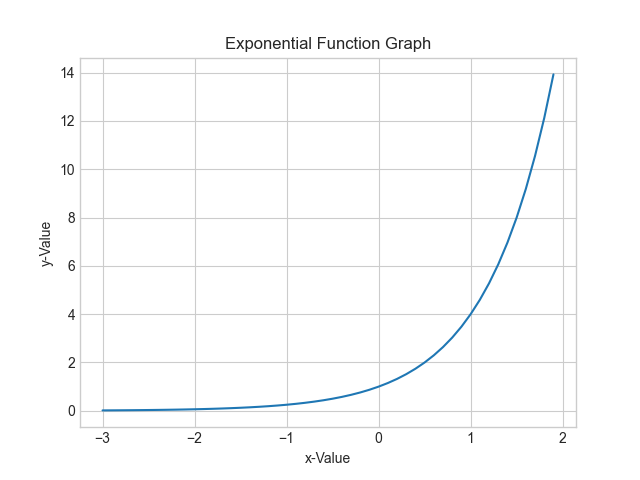
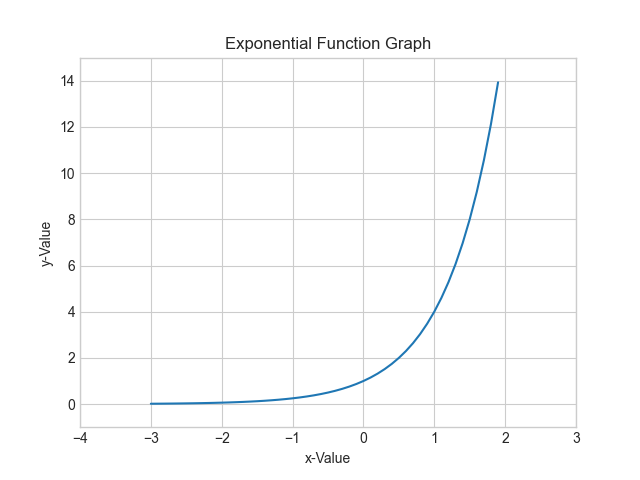
basic tensor

diff --git a/Python_Baisc Perceptron_Tensor/TensorPractice1.py b/Python_Baisc Perceptron_Tensor/TensorPractice1.py
@@ -1,0 +1,32 @@
+import math
+import numpy as np
+import matplotlib.pyplot as plt
+plt.style.use('seaborn-whitegrid')
+
+x = np.array(3)
+print(x) # 3
+print(x.shape) # ()
+print(np.ndim(x)) # 0
+
+print('----------------------')
+a = np.array([1,2,3,4])
+b = np.array([5,6,7,8])
+c = a+b
+print(c) # [ 6  8 10 12]
+print(c.shape) # (4,)
+print(np.ndim(c)) # 1
+
+print('----------------------')
+c = a*b
+print(c) # [ 5 12 21 32]
+print(c.shape) # (4,)
+print(np.ndim(c)) # 1
+
+# Scalar * Vector
+print('----------------------')
+a = np.array(10) # Scalar
+b = np.array([1,2,3,4]) # 1 Dimention Tensor
+c = a*b
+print(c) # [10 20 30 40]
+print(c.shape) # (4,)
+print(np.ndim(c)) # 1

diff --git a/Python_Baisc Perceptron_Math/Exponential.py b/Python_Baisc Perceptron_Math/Exponential.py
@@ -15,6 +15,8 @@ y = exponential_function(x)
 plt.plot(x,y)
 plt.xlabel('x-Value')
 plt.ylabel('y-Value')
+plt.xlim(-4,3)
+plt.ylim(-1,15)
 plt.title('Exponential Function Graph')
 plt.savefig('Exponential_Graph.png')
 plt.show()
